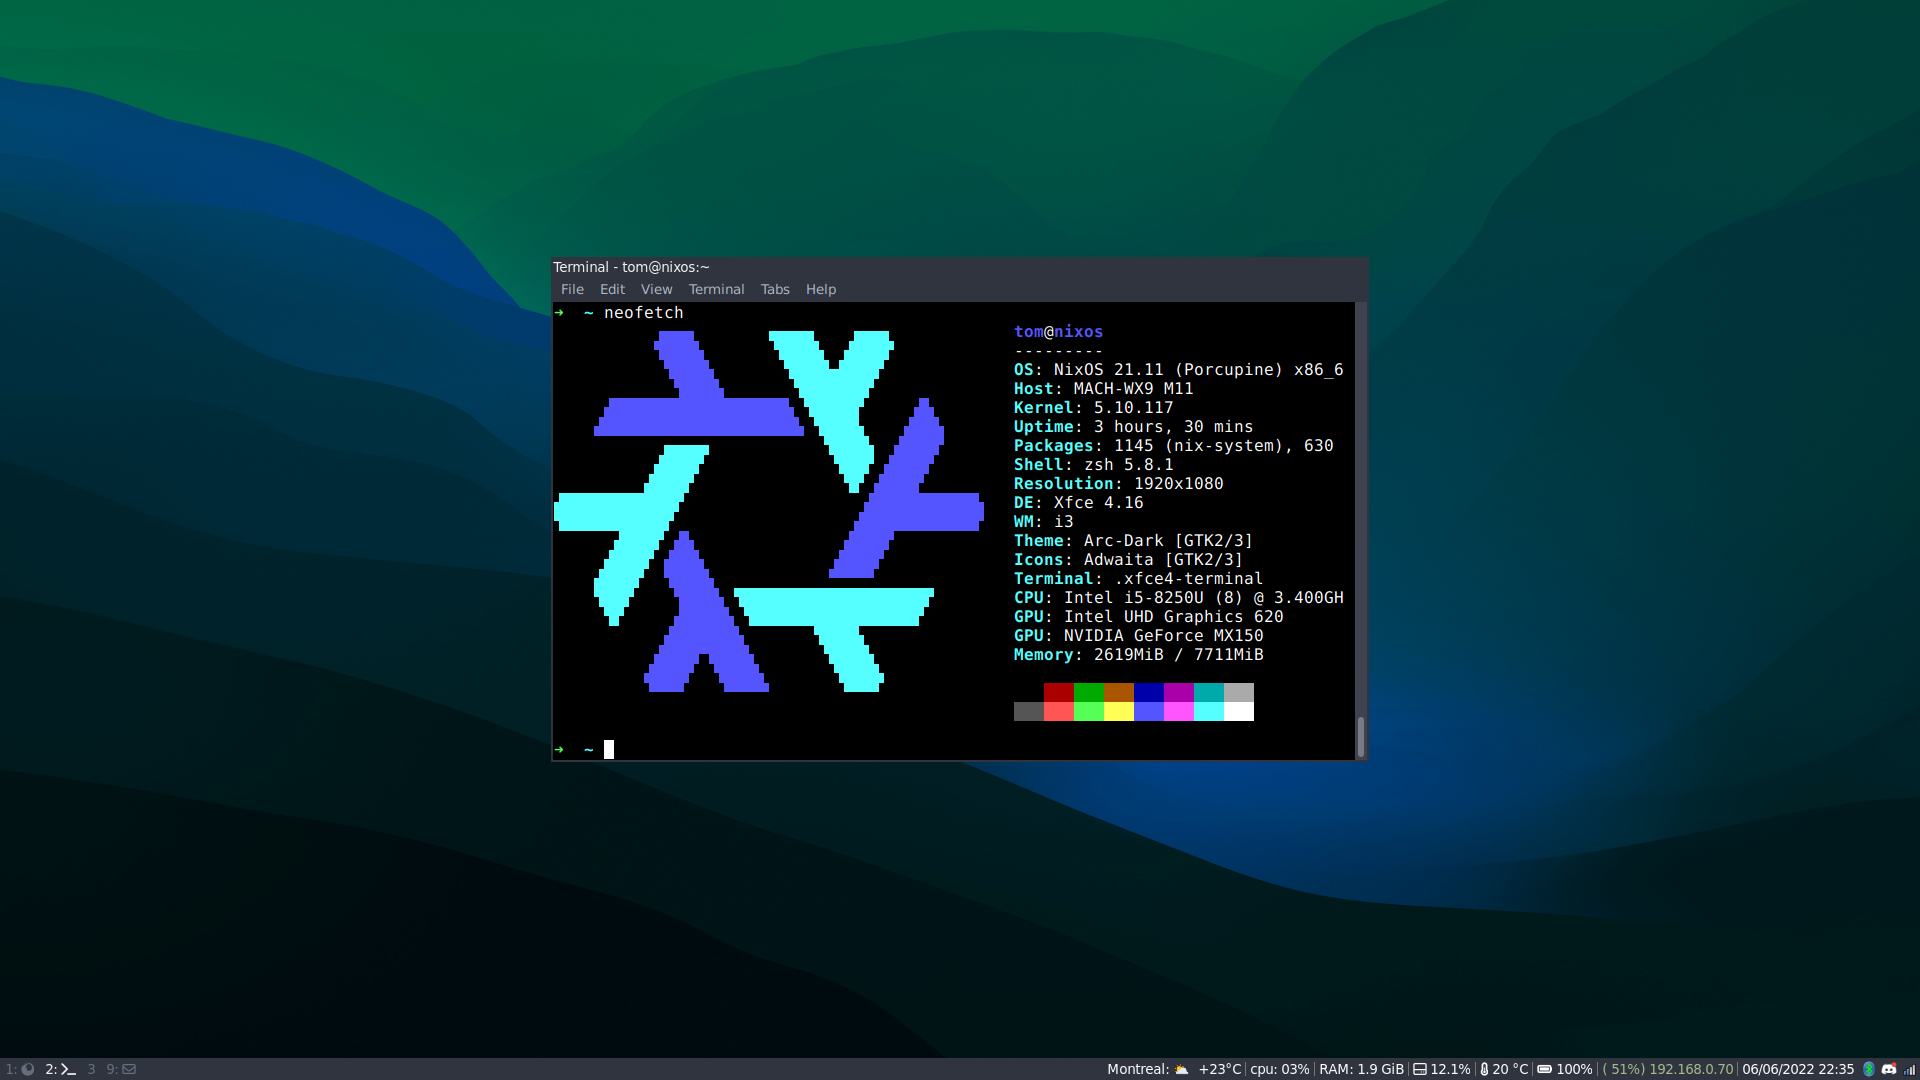
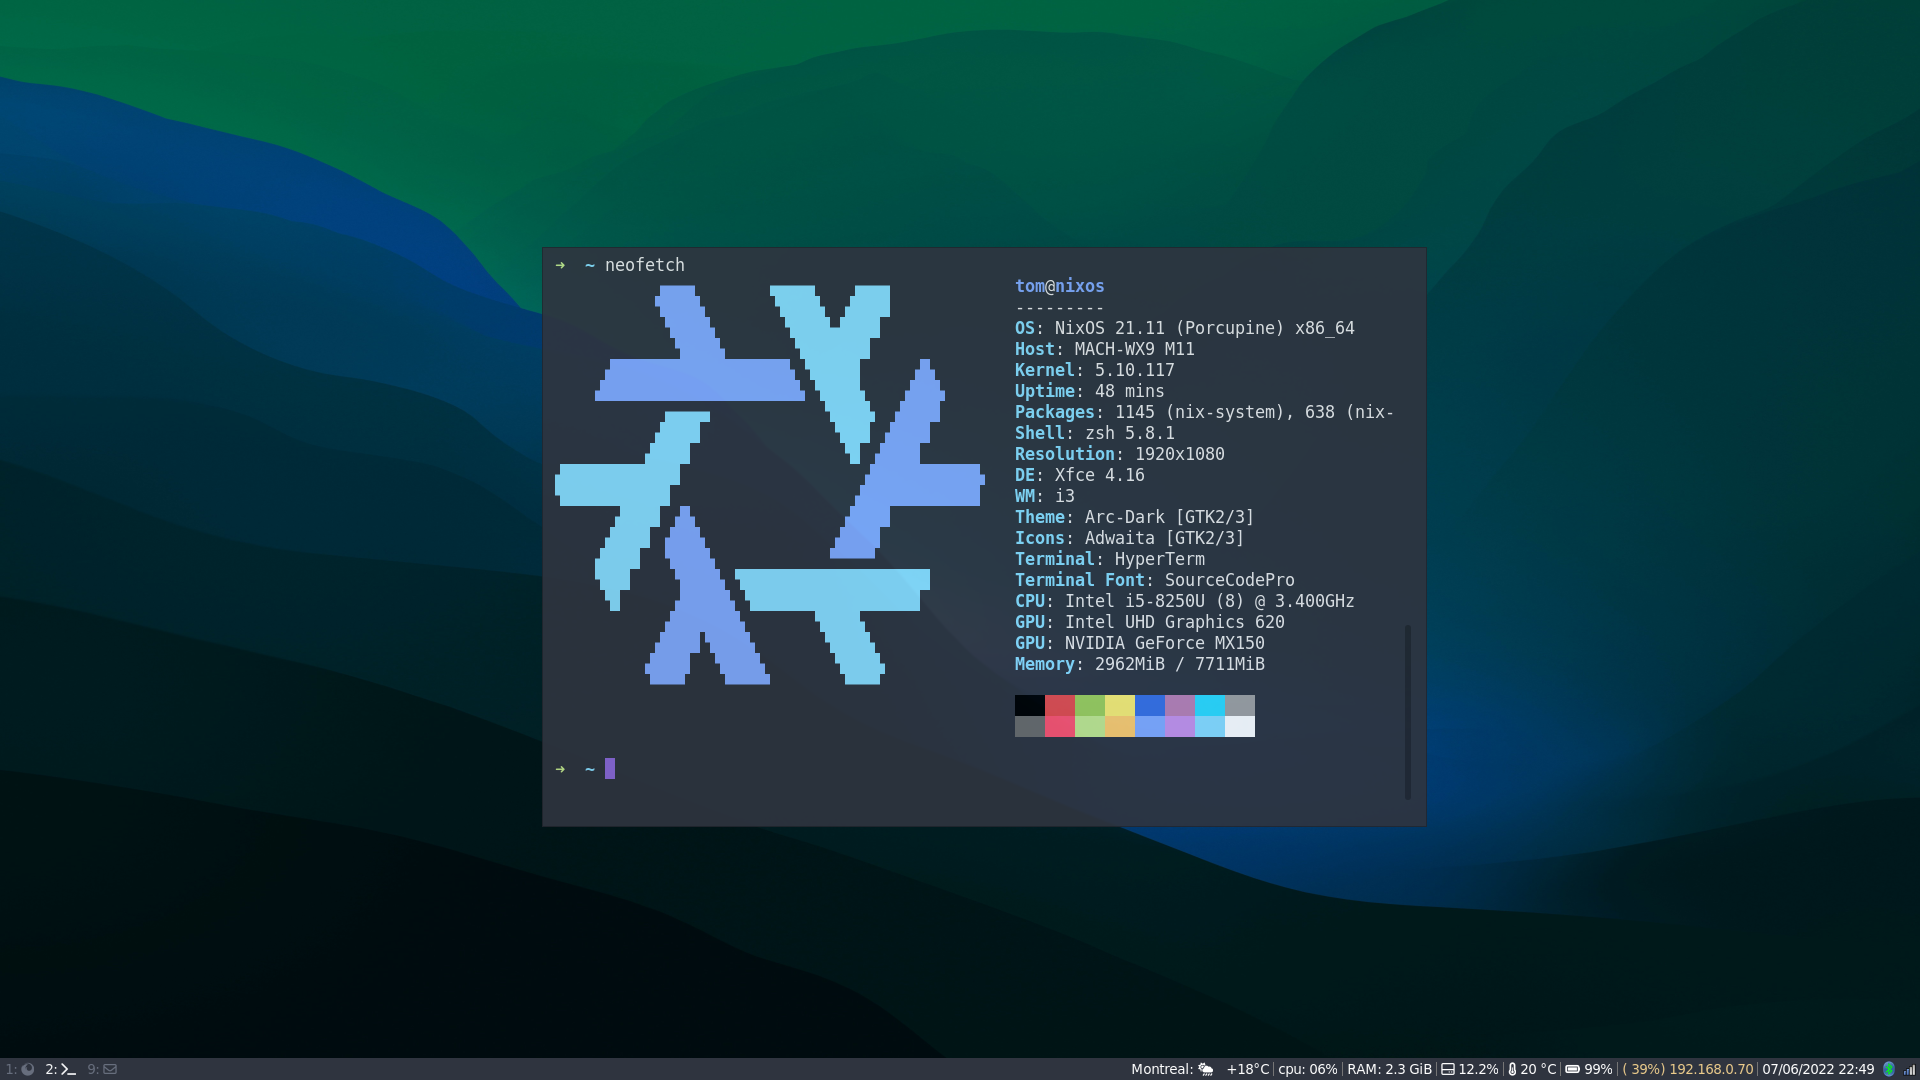
feat: add picom, setup hyper

Changed region(s): [[0.2812, 0.2139, 0.75, 0.7639], [0.5625, 0.9778, 1.0, 1.0]]

diff --git a/apps/hyper/.hyper.js b/apps/hyper/.hyper.js
@@ -1,0 +1,66 @@
+"use strict";
+module.exports = {
+    config: {
+        updateChannel: 'stable',
+        fontSize: 14,
+        fontFamily: 'SourceCodePro, "DejaVu Sans Mono", Consolas, "Lucida Console", monospace',
+        fontWeight: 'normal',
+        fontWeightBold: 'bold',
+        lineHeight: 1,
+        letterSpacing: 0,
+        cursorColor: 'rgba(162, 119, 255, 0.8)',        
+        cursorAccentColor: '#110f18',
+        cursorShape: 'BLOCK',
+        cursorBlink: false,
+        foregroundColor: '#edecee',
+        backgroundColor: '#2f343f',
+        selectionColor: '#a394f033',
+        borderColor: '#23262e',
+        css: '',
+        termCSS: '',
+        workingDirectory: '',
+        showHamburgerMenu: false,
+        showWindowControls: false,
+        padding: '5px 10px',
+        
+        // based on hyper-material-theme
+        colors: {
+            black: '#000000',
+            red: '#E54B4B',
+            green: '#9ECE58',
+            yellow: '#FAED70',
+            blue: '#396FE2',
+            magenta: '#BB80B3',
+            cyan: '#2DDAFD',
+            white: '#a0a0a0',
+            lightBlack: '#6b6b6b',
+            lightRed: '#FF5370',
+            lightGreen: '#C3E88D',
+            lightYellow: '#FFCB6B',
+            lightBlue: '#82AAFF',
+            lightMagenta: '#C792EA',
+            lightCyan: '#89DDFF',
+            lightWhite: '#ffffff'
+        },
+
+        shell: '',
+        shellArgs: ['--login'],
+        env: {},
+        bell: false,
+        copyOnSelect: true,
+        defaultSSHApp: true,
+        quickEdit: false,
+        macOptionSelectionMode: 'vertical',
+        webGLRenderer: false,
+        webLinksActivationKey: '',
+        disableLigatures: true,
+        disableAutoUpdates: false,
+    },
+    plugins: [
+        "hyperminimal", // Hide tab title
+    ],
+    localPlugins: [],
+    keymaps: {
+    },
+};
+//# sourceMappingURL=config-default.js.map
